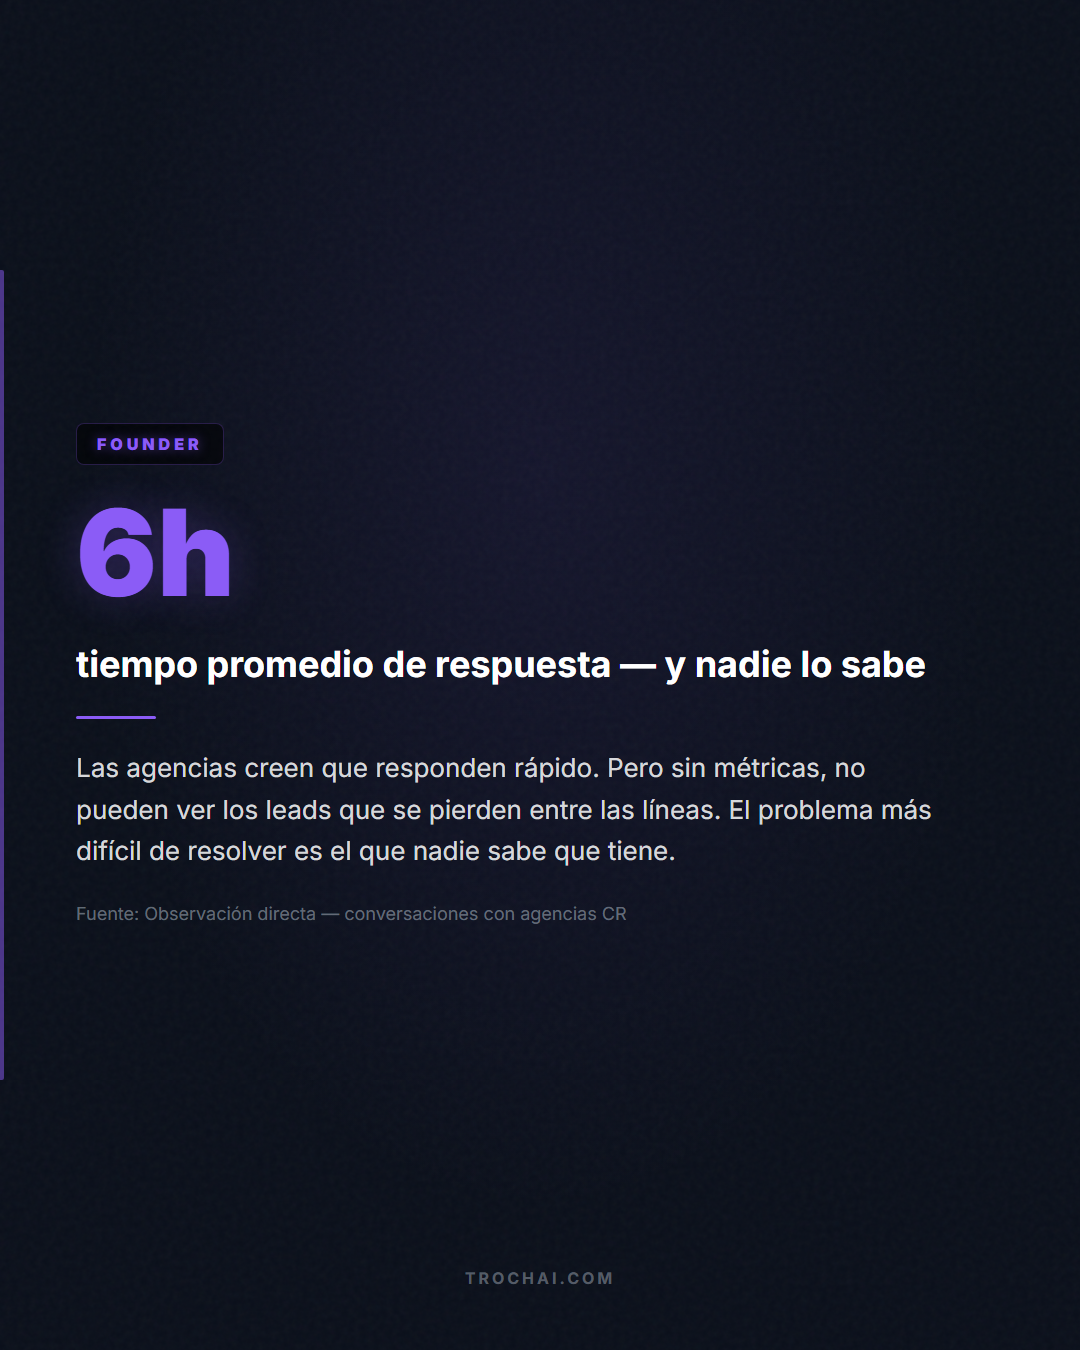
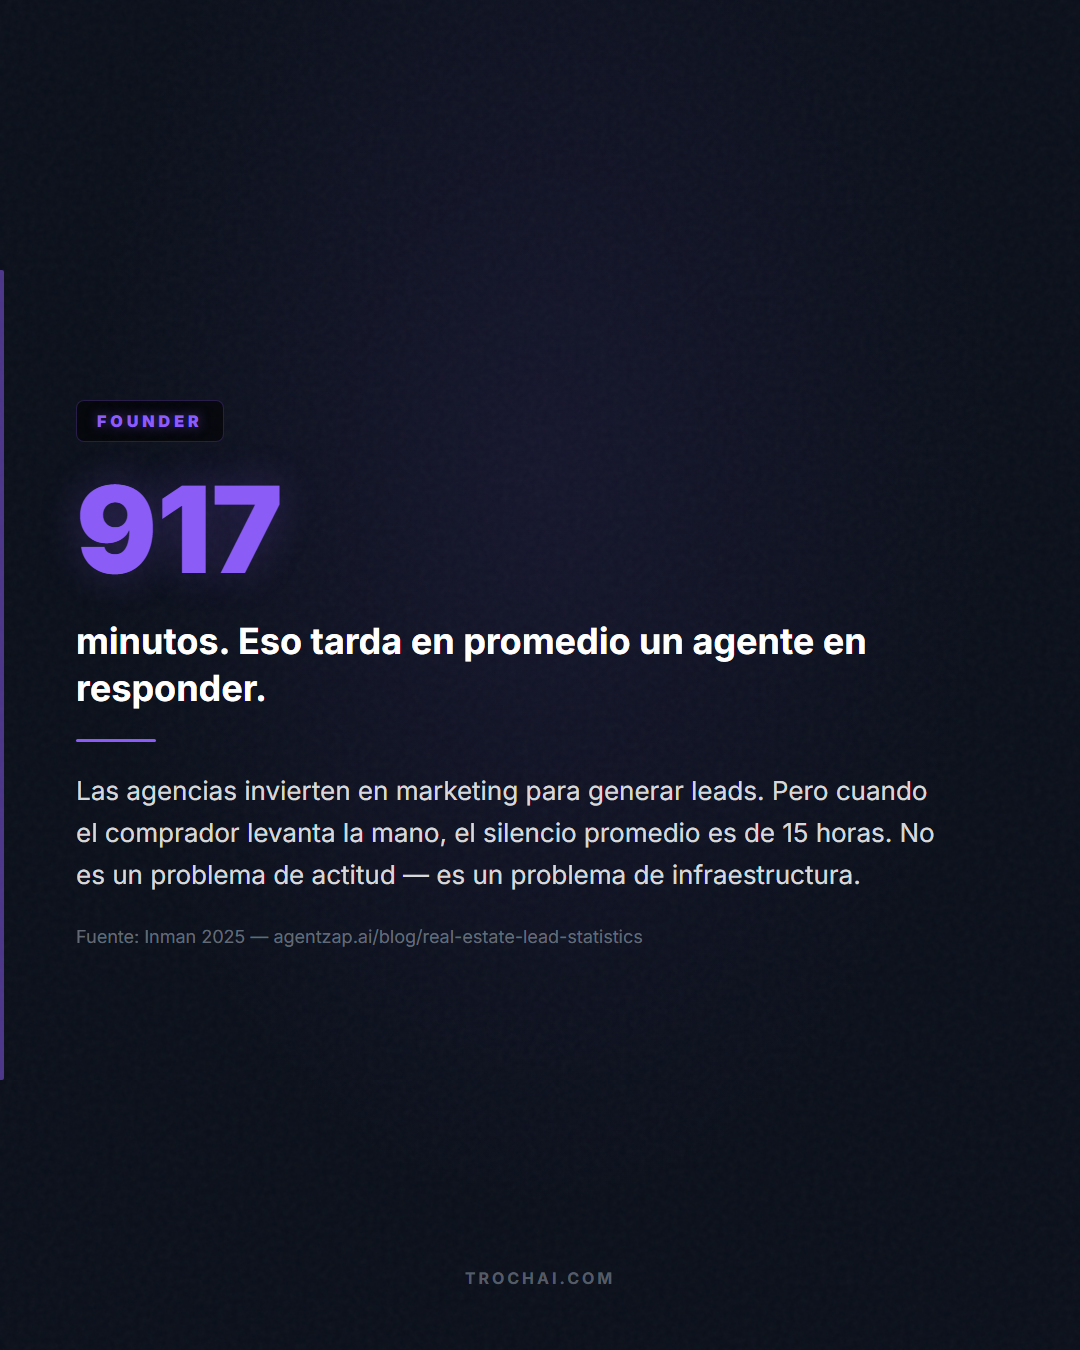
docs: rewrite Sunday W16 — data-driven, no fabricated conversations

Changed region(s): [[0.0611, 0.28, 0.8556, 0.7156]]

diff --git a/content/week-of-2026-04-13/sunday-personal.md b/content/week-of-2026-04-13/sunday-personal.md
@@ -1,4 +1,4 @@
-# Domingo — Lo que aprendí construyendo para un problema invisible
+# Domingo — El número que me persigue: 917
 
 > Bucket: Personal | Formato: Infographic
 
@@ -6,36 +6,34 @@
 
 ## LinkedIn Post Caption
 
-Lo más difícil de resolver un problema es cuando nadie sabe que lo tiene.
+Hay un número que me persigue desde que empecé a construir Trochai: 917.
 
-Llevo meses hablando con directores de agencias inmobiliarias en Costa Rica. Y hay un patrón que se repite:
+917 minutos. Eso es lo que tarda en promedio un agente inmobiliario en responder un lead nuevo. Más de 15 horas.
 
-"Nosotros respondemos rápido."
+No es un dato inventado. Es de la encuesta de tecnología de Inman 2025. Y cuando lo leí por primera vez, no lo podía creer.
 
-Entonces les pregunto: ¿cuánto es rápido?
+Porque piénselo así:
 
-Silencio.
+Una agencia invierte en un sitio web, en portales, en pauta de Instagram, en fotos profesionales — todo para que un comprador interesado levante la mano y diga "quiero saber más."
 
-Porque no lo miden. No es que no les importe — es que WhatsApp Business no tiene un dashboard que les diga "su tiempo promedio de respuesta es 4.3 horas."
+Y cuando lo hace... silencio. 15 horas de silencio.
 
-Cuando finalmente revisan, descubren que:
-→ Los leads del viernes por la noche esperan hasta el lunes
-→ 3 de cada 10 mensajes nunca reciben respuesta
-→ Su mejor agente responde en 15 minutos; el promedio del equipo, en 6 horas
+El 78% de los compradores compra con el primer agente que responde. Entonces esas 15 horas no solo son una demora — son una transferencia directa de comisión a la competencia.
 
-No están ignorando a sus leads a propósito. Simplemente no tienen visibilidad de algo que no pueden medir.
+Lo que me parece fascinante es que no es un problema de actitud. Nadie ignora leads a propósito. Es un problema de infraestructura. WhatsApp Business no fue diseñado para equipos. No hay asignación automática. No hay cobertura fuera de horario. No hay métricas que le digan "oiga, su tiempo promedio es de 6 horas."
 
-Y ahí es donde se pone interesante: construir una solución para un problema que la gente no sabe que tiene es un ejercicio de paciencia.
+Es un problema invisible. Y los problemas invisibles son los más caros — porque nadie los está resolviendo.
 
-No puedo llegar y decir "su WhatsApp está roto." Porque para ellos funciona — los mensajes llegan, los agentes responden, las ventas se hacen.
+Eso es lo que me motivó a construir Trochai. No la tecnología en sí. Sino el hecho de que hay una brecha enorme entre lo que las agencias gastan en generar leads y lo que invierten en responderlos.
 
-Lo que no ven es lo que se pierde entre las líneas: los leads que escribieron a las 9 PM y compraron con otro. Los que preguntaron por segunda vez y nunca recibieron respuesta. Los $7,500 en comisión que nunca existieron en su radar.
+Buen domingo para reflexionar sobre eso.
 
-Construir para un problema invisible requiere mostrar, no decir. Requiere data, no pitch. Y requiere mucha paciencia.
+Fuentes:
+- agentzap.ai/blog/real-estate-lead-statistics — 917 min promedio de respuesta (Inman 2025)
+- nar.realtor/research/data/buyers — 78% compran con el primero que responde
+- mikedp.com/articles/real-estate-agents-response-time — 47% sin respuesta
 
-Es domingo. Buen momento para reflexionar sobre eso.
-
-#BuildingInPublic #SaaS #PropTech #CostaRica #FounderJourney #Reflexión
+#BuildingInPublic #SaaS #PropTech #CostaRica #FounderJourney
 
 ---
 
@@ -46,10 +44,10 @@ Es domingo. Buen momento para reflexionar sobre eso.
 
 ```json
 {
-  "stat": "6h",
-  "statLine": "tiempo promedio de respuesta — y nadie lo sabe",
-  "insight": "Las agencias creen que responden rápido. Pero sin métricas, no pueden ver los leads que se pierden entre las líneas. El problema más difícil de resolver es el que nadie sabe que tiene.",
-  "source": "Observación directa — conversaciones con agencias CR",
+  "stat": "917",
+  "statLine": "minutos. Eso tarda en promedio un agente en responder.",
+  "insight": "Las agencias invierten en marketing para generar leads. Pero cuando el comprador levanta la mano, el silencio promedio es de 15 horas. No es un problema de actitud — es un problema de infraestructura.",
+  "source": "Inman 2025 — agentzap.ai/blog/real-estate-lead-statistics",
   "topicTag": "FOUNDER",
   "accentColor": "#8B5CF6"
 }
